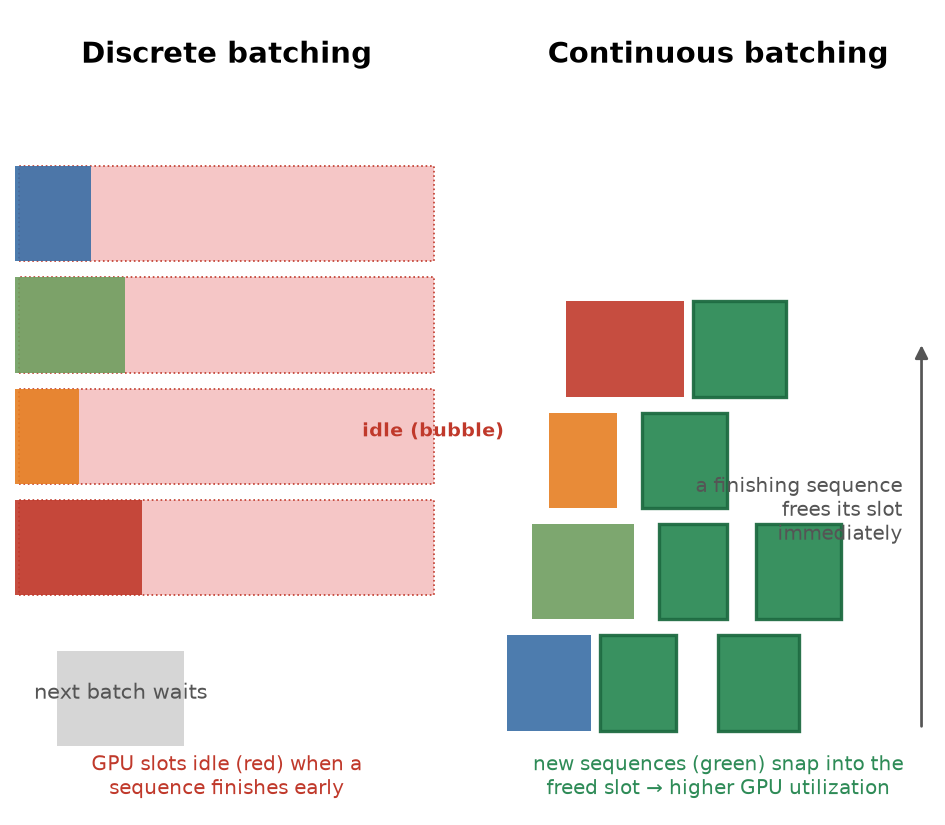
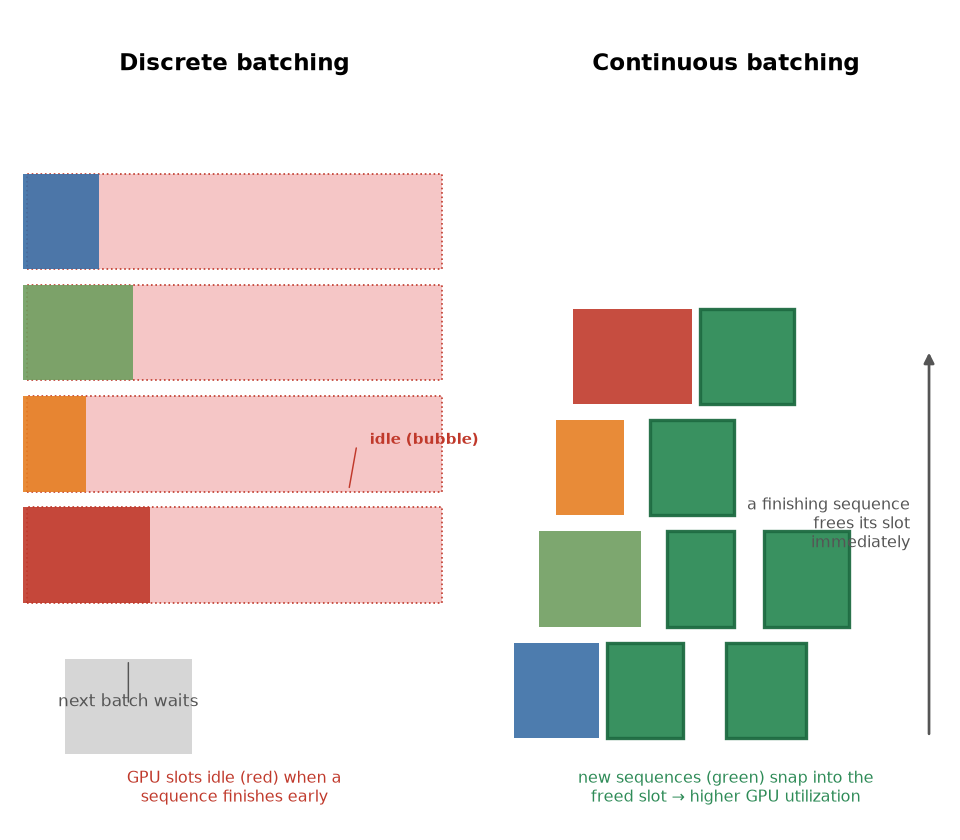
Fix Fig 11.2: anchor floating annotations with leader lines to their targets

diff --git a/render/fig_ch11_batch.py b/render/fig_ch11_batch.py
@@ -22,8 +22,12 @@ tasks = [(0, 1.8, 0), (0, 2.6, 1), (0, 1.5, 2), (0, 3.0, 3)]
 for (x0, w, s) in tasks:
     ax.add_patch(Rectangle((x0, 4 - 0.7*s - 0.55), w, 0.6, fc=colors[s], ec='none', alpha=0.9))
 ax.text(8.2, 4 - 0.7*2 - 0.25, 'idle (bubble)', fontsize=7, color='#c0392b', ha='left', fontweight='bold')
+ax.annotate('', xy=(7.7, 4 - 0.7*2 - 0.55), xytext=(7.9, 4 - 0.7*2 - 0.25),
+            arrowprops=dict(arrowstyle='-', lw=0.7, color='#c0392b'))
 ax.add_patch(Rectangle((1.0, 0.4), 3.0, 0.6, fc='#bbb', ec='none', alpha=0.6))
 ax.text(2.5, 0.7, 'next batch waits', fontsize=8, color='#555', ha='center')
+ax.annotate('', xy=(2.5, 1.0), xytext=(2.5, 0.7),
+            arrowprops=dict(arrowstyle='-', lw=0.7, color='#555'))
 ax.text(5.0, 0.1, 'GPU slots idle (red) when a\nsequence finishes early', fontsize=7.5, color='#c0392b', ha='center')
 
 # ---------- continuous (right) ----------
